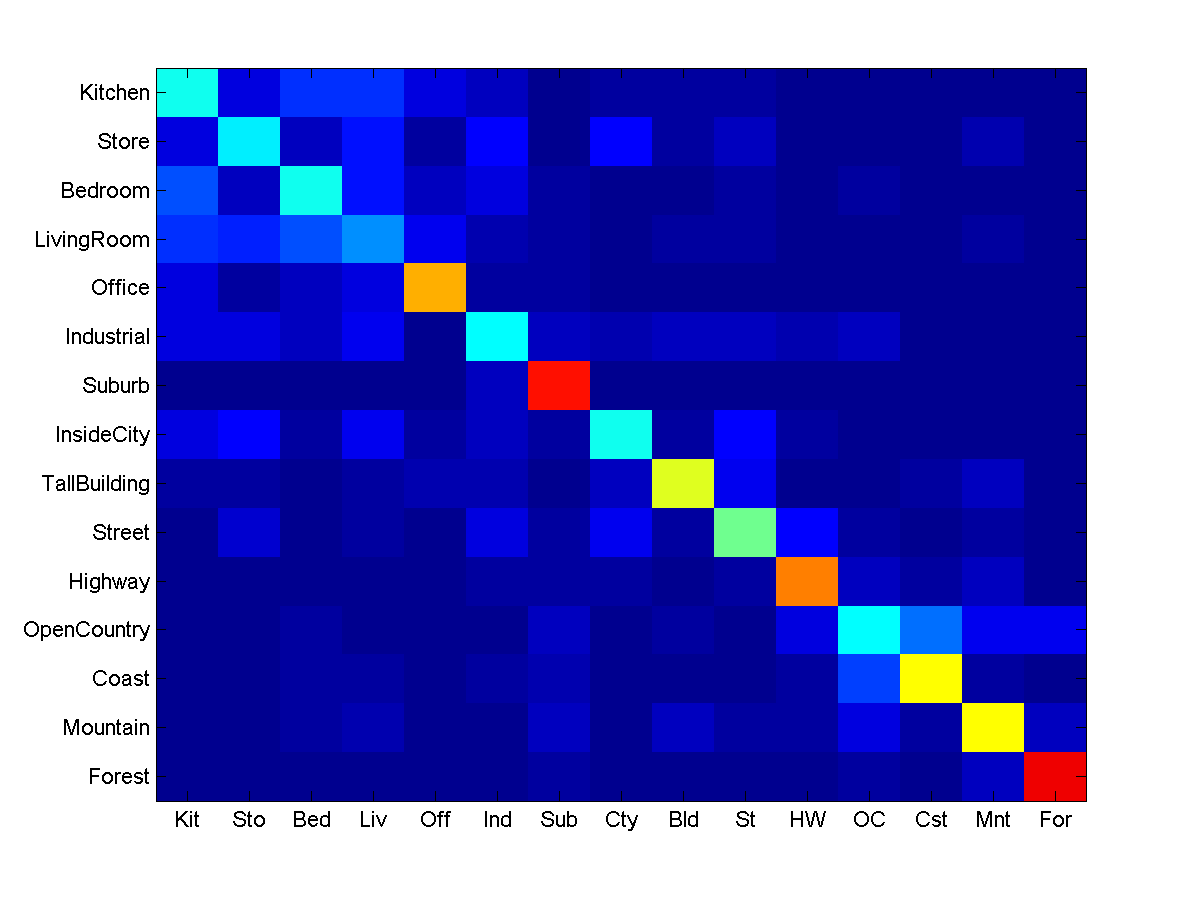
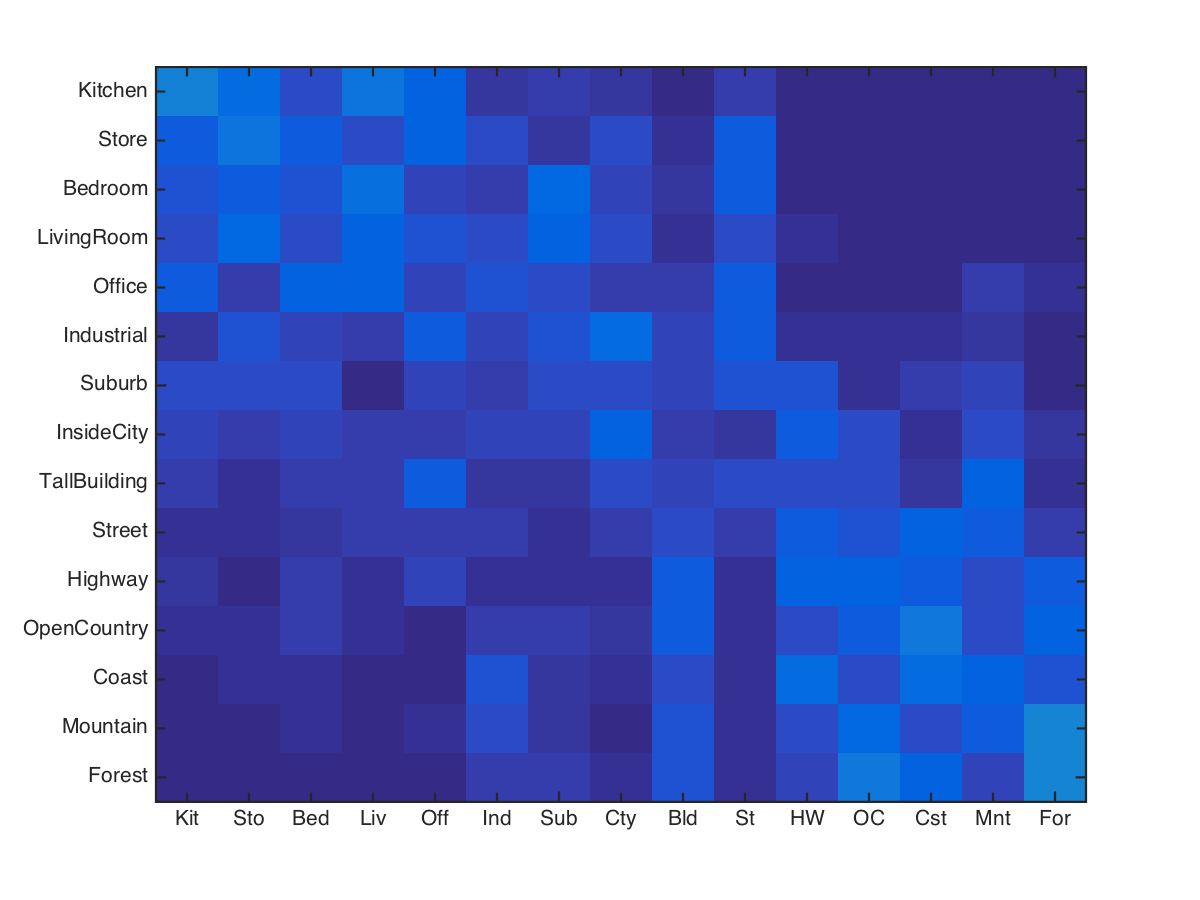
FINAL

diff --git a/code/proj3.m b/code/proj3.m
@@ -16,8 +16,8 @@ global X K
 %code does not crash when run unmodified and you can get a preview of how
 %results are presented.
 
-FEATURE = 'tiny image';
-% FEATURE = 'bag of sift';
+% FEATURE = 'tiny image';
+FEATURE = 'bag of sift';
 % FEATURE = 'placeholder';
 
 CLASSIFIER = 'nearest neighbor';

diff --git a/index.md b/index.md
@@ -3,16 +3,29 @@
 <img src="confusion_matrix.png">
 
 <br>
-Accuracy (mean of diagonal of confusion matrix) is 0.531
+Accuracy (mean of diagonal of confusion matrix) is 0.6
 <p>
 
 
 #Experiment 
 *Tiny image + k nearest neighbor
-By iterating over k from 5 to 15, Found an optimized parameter k=14
+By iterating over k from 5 to 15, Found an optimized parameter k=14 with accuracy : 0.08
+<img src="cm_tinynn.jpg">
+
+* Method explanation :
+1. Tiny image function resizes the original image into 16 * 16 pixels although it losses a lot of information but is is an easy way to serve as features, because it doesn't cause much computation resources.
+2. k nearest neighbor merely compares the test data features to each of the train data and find the top k nearest data points. After we select k nearest data, each of the data represents a catagory such as "kitchen". Then vote for the most likely catagory
+
+
 * Vocabulary building
 * bag of sift + k nearest neighbor:
 In bag of sift + k nearest neighbor, I iterated the step in the vl_dsift(img,'step',step) and found it reach the optimal value at step = 20
+with accuracy : 0.1287
+<img src="cm_bownn.jpg">
+
+* Method explanation :
+bag of sift method first build a vocabulary by classifying the descriptors (default: 400 dimensions)
+then in the testing pattern count the porpotion of the 
 
 #tried extra credits
 ##Experimental design extra credit:

diff --git a/results/index.md b/results/index.md
@@ -3,16 +3,29 @@
 <img src="confusion_matrix.png">
 
 <br>
-Accuracy (mean of diagonal of confusion matrix) is 0.531
+Accuracy (mean of diagonal of confusion matrix) is 0.6
 <p>
 
 
 #Experiment 
 *Tiny image + k nearest neighbor
-By iterating over k from 5 to 15, Found an optimized parameter k=14
+By iterating over k from 5 to 15, Found an optimized parameter k=14 with accuracy : 0.08
+<img src="cm_tinynn.jpg">
+
+* Method explanation :
+1. Tiny image function resizes the original image into 16 * 16 pixels although it losses a lot of information but is is an easy way to serve as features, because it doesn't cause much computation resources.
+2. k nearest neighbor merely compares the test data features to each of the train data and find the top k nearest data points. After we select k nearest data, each of the data represents a catagory such as "kitchen". Then vote for the most likely catagory
+
+
 * Vocabulary building
 * bag of sift + k nearest neighbor:
 In bag of sift + k nearest neighbor, I iterated the step in the vl_dsift(img,'step',step) and found it reach the optimal value at step = 20
+with accuracy : 0.1287
+<img src="cm_bownn.jpg">
+
+* Method explanation :
+bag of sift method first build a vocabulary by classifying the descriptors (default: 400 dimensions)
+then in the testing pattern count the porpotion of the 
 
 #tried extra credits
 ##Experimental design extra credit:
